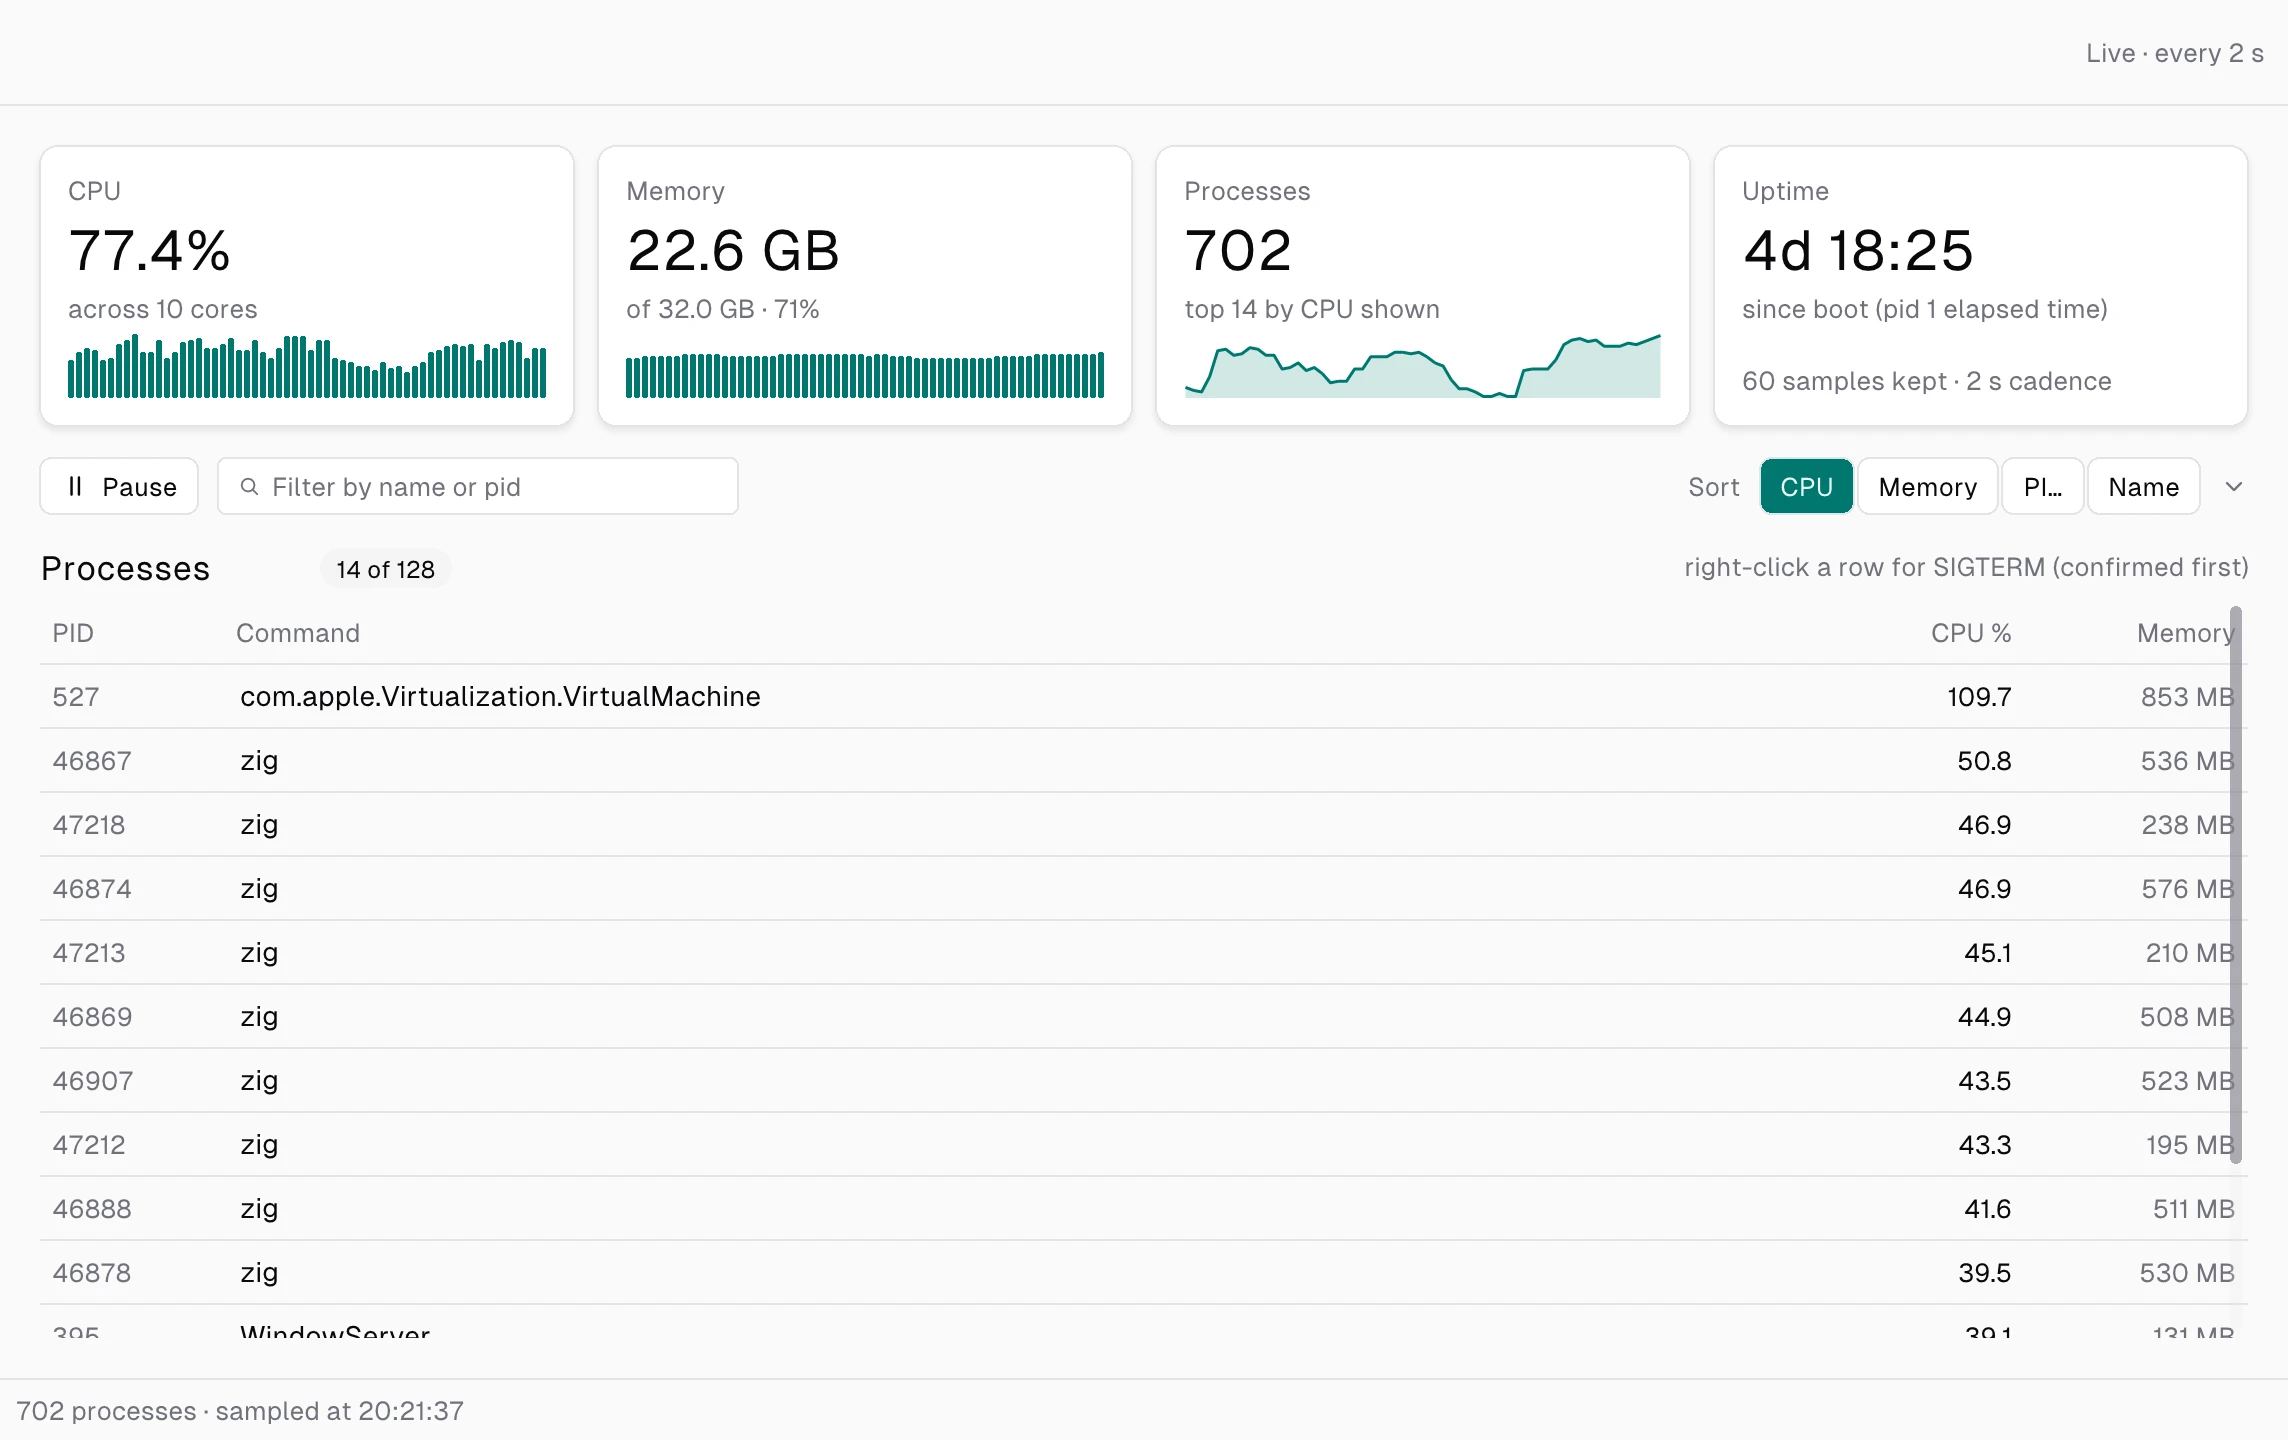
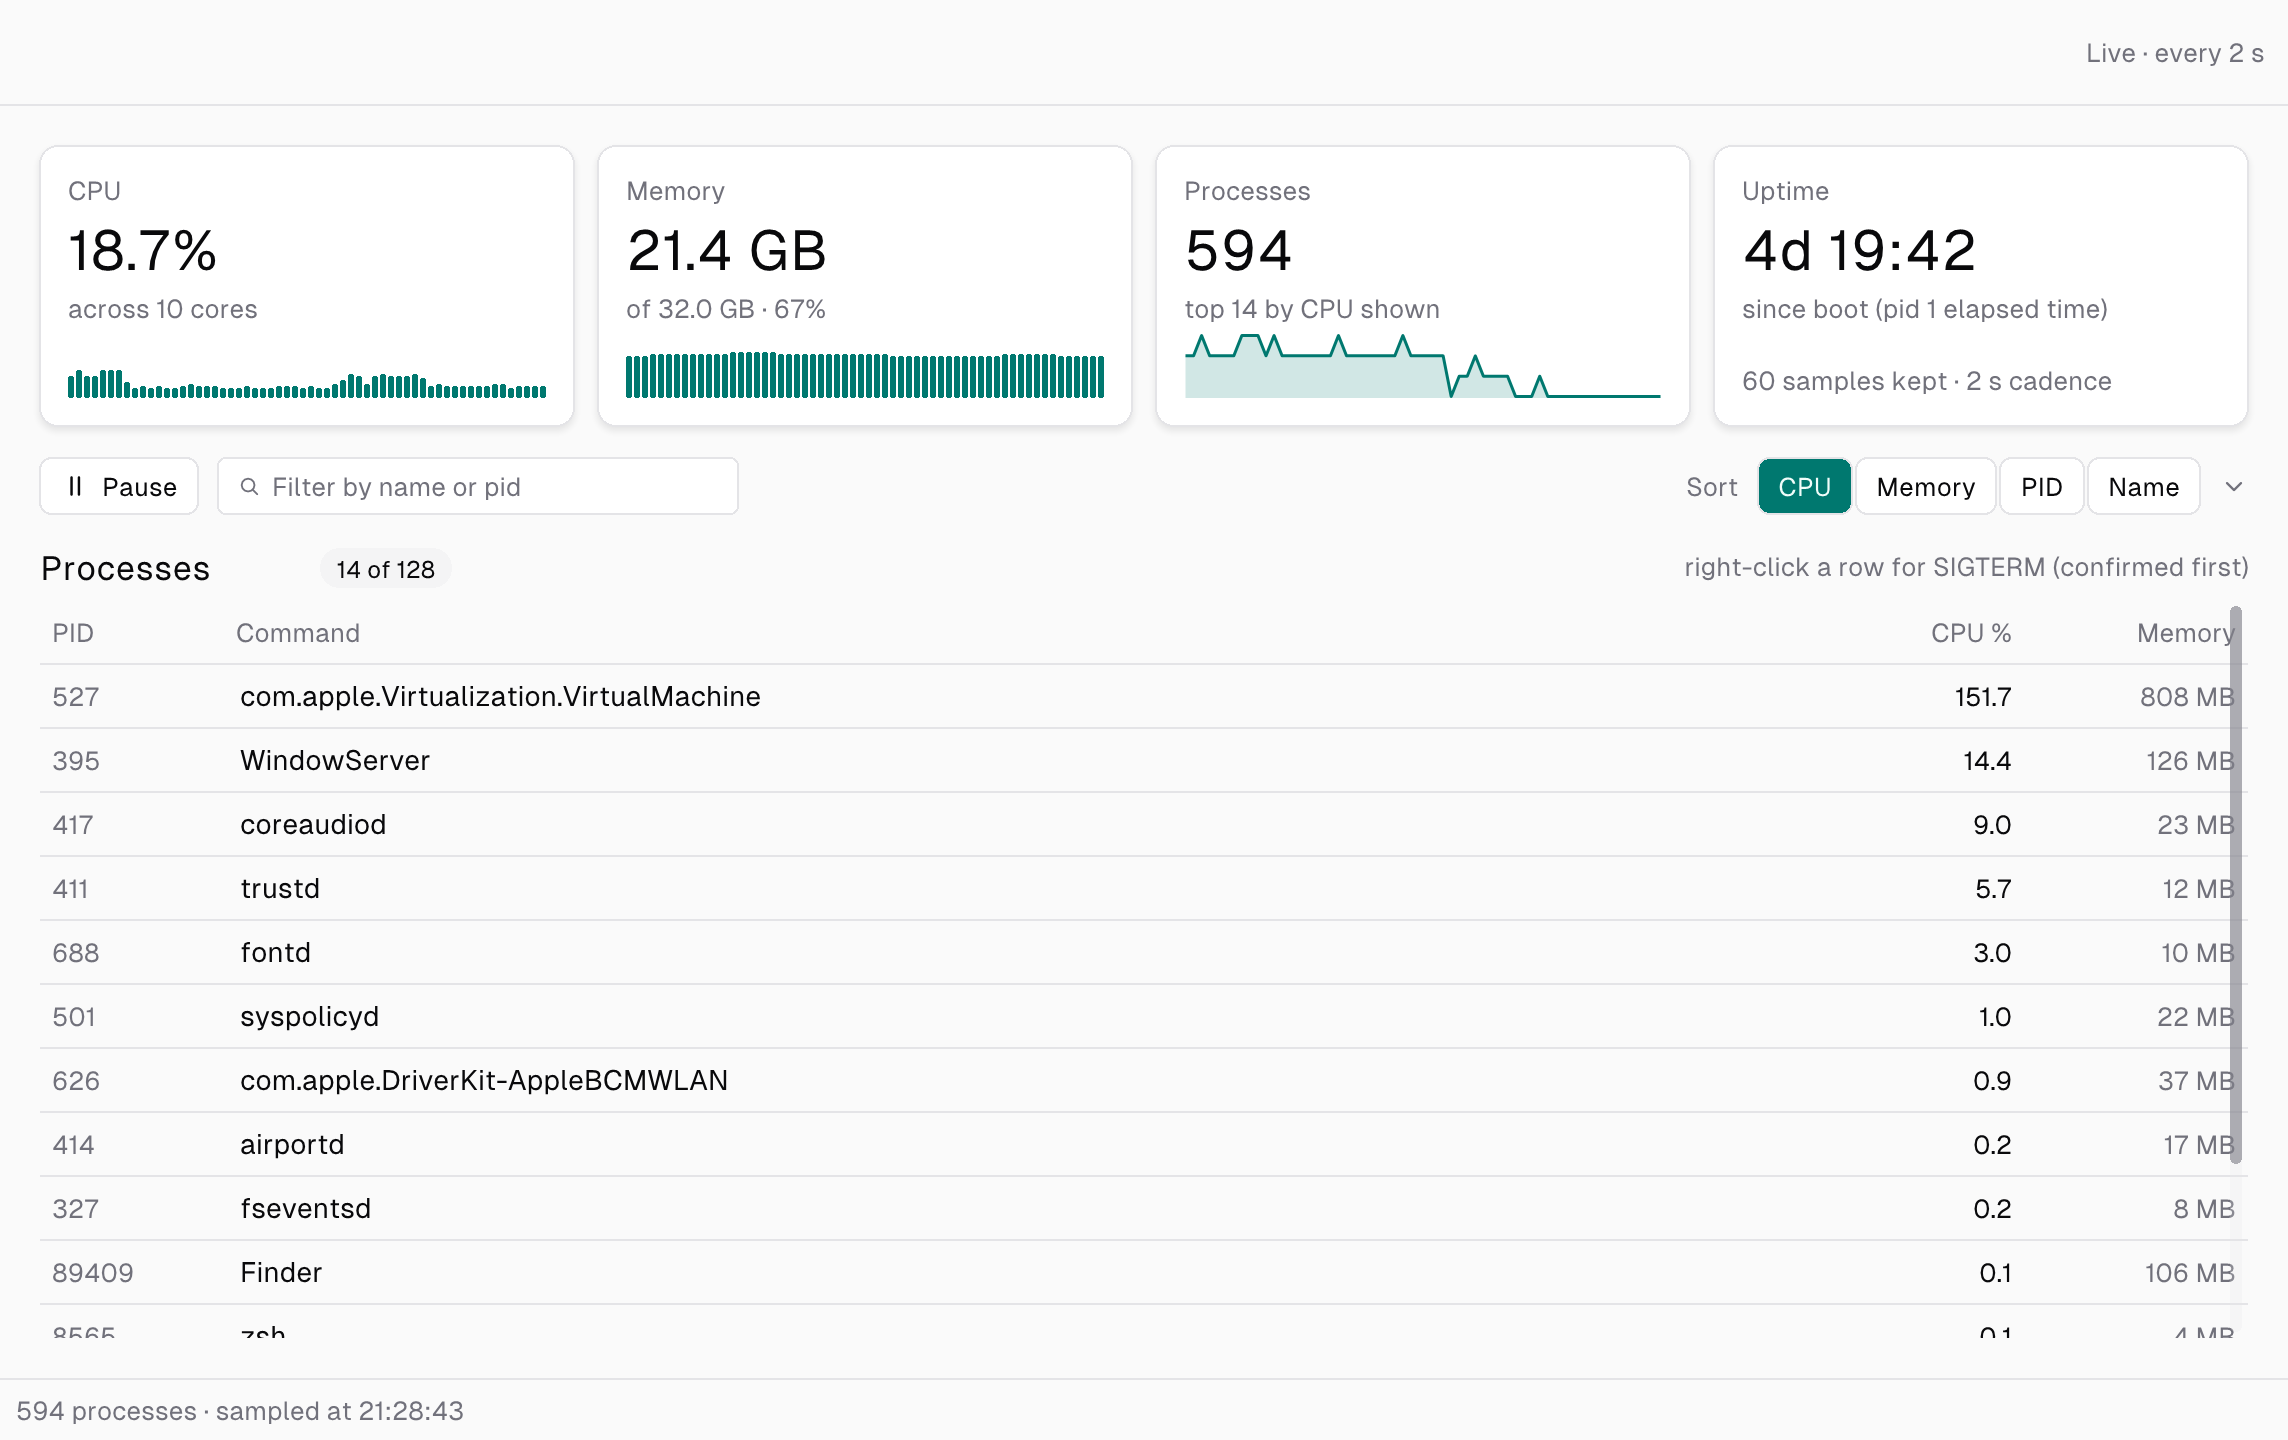
Ceil label-exact intrinsic widths to the snap grid
- Every control whose intrinsic width is measured from its label — chips, buttons, segments, menu items, rows, tooltips, status bars, selection labels — reserves a grid-ceiled width so geometry snapping can never shave it past the elision slack; the switch also reserves its separately-snapped track growth
- Non-snapping themes are bit-identical, pinned by a sweep test and a bit-identity pin, and the system-monitor captures regenerate with whole chips

diff --git a/changelog.d/chip-pixel-snap-elision.md b/changelog.d/chip-pixel-snap-elision.md
@@ -1,0 +1,1 @@
+fix: **Measured-label controls no longer elide under pixel snapping**: a control sized exactly to its measured label — toggle chips (the system monitor's "PID" sort chip painted "PI…"), buttons, segmented controls and tab triggers, menu and list rows, tooltips, checkbox/radio/switch labels, hug-sized status bars — could lose a fraction of a pixel to render-time geometry snapping and swap real glyphs for an ellipsis. Every measured-label intrinsic width now rounds UP to the snap grid (the badge rule from the previous round), the switch additionally reserves its snapped track extent, and themes without geometry snapping stay bit-identical.